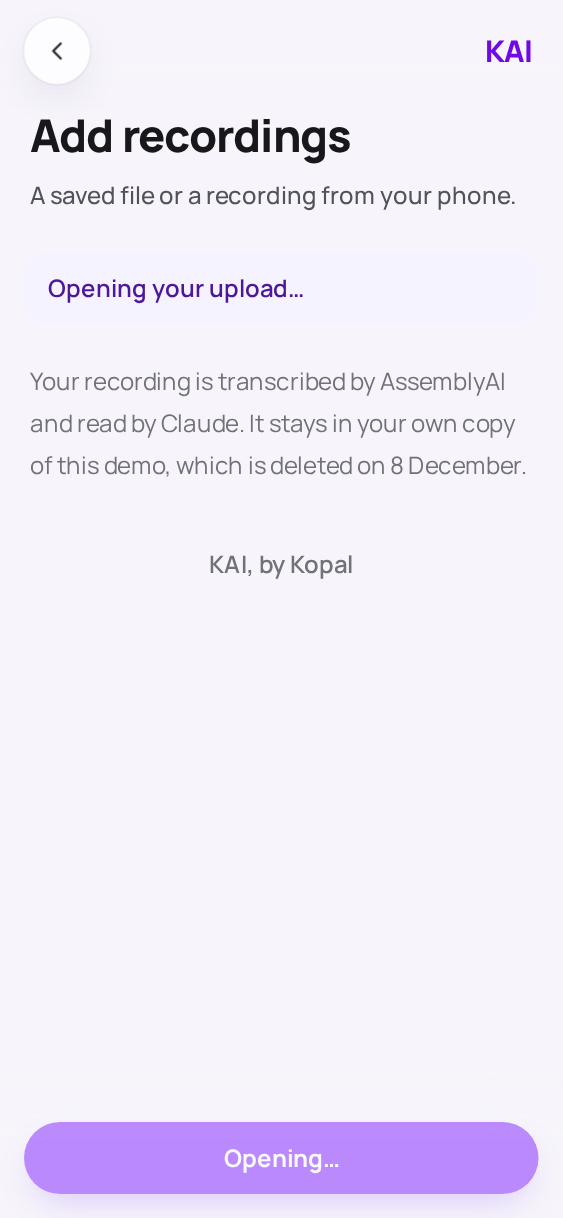
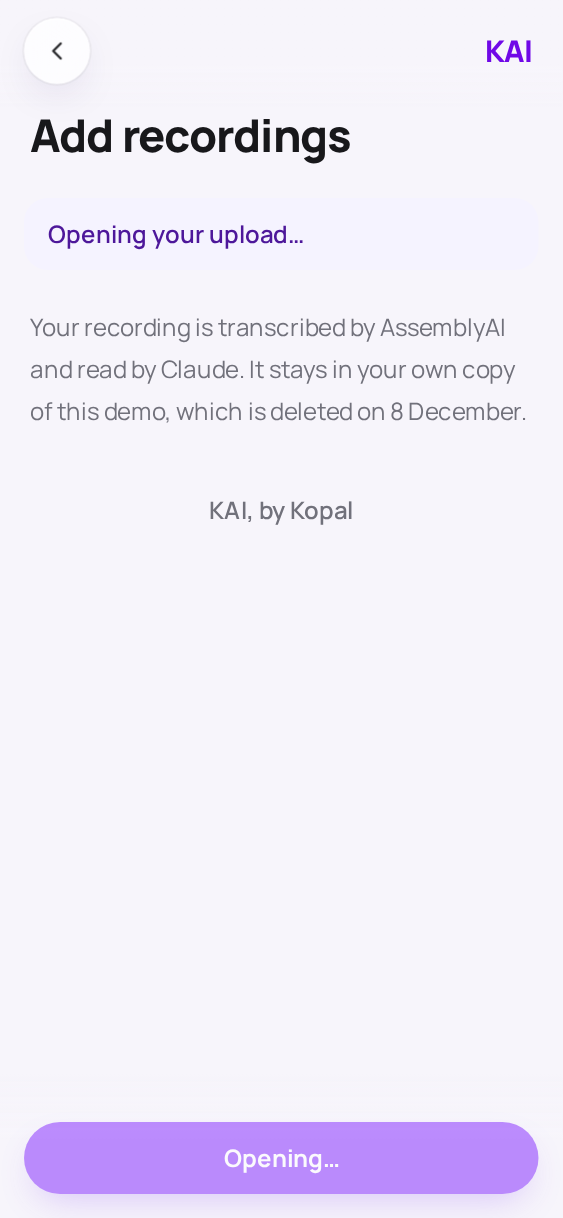
Use compact app rows with a shortcut setup link

Changed region(s): [[0.0604, 0.156, 0.9361, 0.468]]

diff --git a/src/look/screens/Upload.tsx b/src/look/screens/Upload.tsx
@@ -6,11 +6,11 @@ import { Button, Card, Field, FOCUS, Notice, PushedPage, RecordingPicker, Segmen
 import {Icon} from '../icons'
 import {Dialog,DialogTitle,DialogBody,DialogActions} from '../../catalyst/dialog'
 export type UploadSource='voice-memos'|'whatsapp'|'messages'|'telegram'|'files'
-const appImages={whatsapp:new URL('../brands/whatsapp.svg',import.meta.url).href,messages:new URL('../brands/messages.png',import.meta.url).href,telegram:new URL('../brands/telegram.svg',import.meta.url).href}
+const appImages={whatsapp:new URL('../brands/whatsapp.svg',import.meta.url).href,messages:new URL('../brands/messages.png',import.meta.url).href,'voice-memos':new URL('../brands/voice-memos.png',import.meta.url).href}
 const apps:{id:keyof typeof appImages;label:string;href:string}[]=[
+ {id:'voice-memos',label:'Voice Memos',href:''},
  {id:'whatsapp',label:'WhatsApp',href:'whatsapp://app'},
- {id:'messages',label:'Messages',href:'sms:'},
- {id:'telegram',label:'Telegram',href:'tg://settings'}
+ {id:'messages',label:'Messages',href:'sms:'}
 ]
 const guides:Record<UploadSource,string[]>={
  'voice-memos':['Open Voice Memos from your Home Screen and choose a recording.','Tap More (…), then Share. If Options appears, choose Rendered audio.','Choose Send to KAI. Your browser opens so you can choose the recording type.','Or choose Save to Files, then use Choose audio file here.'],
@@ -54,7 +54,7 @@ export function Upload({ people, incoming, readOnly, presetPerson, busy, error, 
   const valid=Boolean(recordingType) && (recordingType!=='voice' || (selected==='new' ? Boolean(name.trim()):Boolean(selected)))
   const dock=readOnly ? <WhatIsKai/> : loadError ? <Button variant="primary" wide onClick={onRetry}>Try again</Button> : !people ? <Button variant="primary" wide disabled>Opening…</Button> : exhausted ? <Button variant="primary" wide href={xPostUrl || '/home'}>{xPostUrl ? 'Show KAI some love':'Back to Home'}</Button> : attached ? <Button variant="primary" wide disabled={busy || !valid} onClick={()=>incoming?onStart(person):file&&onFiles([file],person)}>{busy ? 'Starting…' : recordingType==='multiple' ? 'Transcribe recording':'Let KAI read'}</Button> : undefined
   return <PushedPage back="/home" backLabel="Back to Home" readOnly={readOnly} dock={dock}>
-    <header className="px-1"><h1 className="text-[30px]/9 font-extrabold tracking-tight">Add recordings</h1><p className="mt-2 text-base/7 font-medium text-zinc-600">{attached ? 'Tell KAI whose words these are.':'A saved file or a recording from your phone.'}</p></header>
+    <header className="px-1"><h1 className="text-[30px]/9 font-extrabold tracking-tight">Add recordings</h1>{attached && <p className="mt-2 text-base/7 font-medium text-zinc-600">Tell KAI whose words these are.</p>}</header>
     {readOnly ? <Card className="p-5 text-base/7 font-medium text-zinc-600">Open your own copy to add recordings.</Card> : loadError ? <Notice tone="error">{loadError}</Notice> : !people ? <Notice>Opening your upload…</Notice> : exhausted ? <Card className="space-y-3 p-5"><h2 className="text-xl font-extrabold">Your trial time is complete</h2><p className="text-base/7 text-zinc-600">You’ve used your recording time. Your people, tasks and past recordings are still here.</p></Card> : <>
       {!attached && <>
        <section className="rounded-[28px] border border-dashed border-violet-400 bg-violet-50/30 p-5 text-center">
@@ -63,20 +63,20 @@ export function Upload({ people, incoming, readOnly, presetPerson, busy, error, 
         <p className="mt-2 mb-5 text-base/7 text-zinc-500">One audio file · up to 10 MB · under 30 minutes</p>
         <RecordingPicker label="Choose audio file" busy={busy} onFiles={chooseFiles}/>
        </section>
-       <section className="space-y-4"><div className="flex items-center justify-between gap-2"><h2 className="text-xl font-extrabold">Voice notes</h2><TextLink href={'/connect?next='+(guide&&guide!=='files'?guide:'whatsapp')}>{shortcutReady?'Sharing setup':'Set up sharing'}</TextLink></div>
-        <div className="grid grid-cols-3 gap-2" aria-label="Share from an app">{apps.map(app=><div key={app.id} className="text-center">
-         <a className={`${FOCUS} flex min-h-24 flex-col items-center justify-center gap-2 rounded-2xl text-base font-bold`} href={shortcutReady?app.href:to('/connect?next='+app.id)} onClick={()=>setGuide(app.id)}><img src={appImages[app.id]} alt="" width={48} height={48} className="size-12 object-contain"/>{app.label}</a>
-         <button className={`${FOCUS} mx-auto grid size-11 place-items-center rounded-full text-zinc-500`} aria-label={'How to add from '+app.label} aria-haspopup="dialog" aria-expanded={guide===app.id} onClick={()=>setGuide(guide===app.id?null:app.id)}><Icon name="info"/></button>
-        </div>)}</div>
-        <button className={`${FOCUS} flex min-h-16 w-full items-center gap-3 rounded-2xl px-1 text-left`} onClick={()=>setGuide(guide==='voice-memos'?null:'voice-memos')} aria-expanded={guide==='voice-memos'}><Icon name="mic"/><span className="flex-1"><span className="block text-base font-bold">Voice Memos</span><span className="text-base/7 text-zinc-500">How to share your recording</span></span><Icon name="right"/></button>
-        <p className="text-base/7 text-zinc-500">{shortcutReady?'Your sharing shortcut is set up.':'Sharing from apps needs the Send to KAI shortcut.'}</p>
+       <section className="space-y-3">
+        <h2 className="px-1 text-lg/7 font-bold">or share from any of your apps, for example:</h2>
+        <Card className="divide-y divide-zinc-100 overflow-hidden" aria-label="Share from an app">{apps.map(app=><div key={app.id} className="flex items-center gap-2 pr-2 pl-4">
+         {app.id==='voice-memos' ? <button className={`${FOCUS} flex min-h-[68px] min-w-0 flex-1 items-center gap-3 rounded-xl text-left text-base font-bold`} onClick={()=>setGuide(app.id)}><img src={appImages[app.id]} alt="" width={30} height={30} className="size-[30px] rounded-md object-contain"/>{app.label}</button> : <a className={`${FOCUS} flex min-h-[68px] min-w-0 flex-1 items-center gap-3 rounded-xl text-base font-bold`} href={shortcutReady?app.href:to('/connect?next='+app.id)} onClick={()=>setGuide(app.id)}><img src={appImages[app.id]} alt="" width={30} height={30} className="size-[30px] rounded-md object-contain"/>{app.label}</a>}
+         <button className={`${FOCUS} grid size-11 shrink-0 place-items-center rounded-full text-zinc-500`} aria-label={'How to add from '+app.label} aria-haspopup="dialog" aria-expanded={guide===app.id} onClick={()=>setGuide(app.id)}><Icon name="info"/></button>
+        </div>)}</Card>
+        <div className="flex items-center justify-between gap-2 px-1 text-base/7 text-zinc-500"><span>Uses Send to KAI</span><TextLink href={'/connect?next='+(guide&&guide!=='files'?guide:'voice-memos')}>Sharing setup</TextLink></div>
        </section>
        <Dialog open={Boolean(guide)} onClose={()=>setGuide(null)} className="!rounded-[28px]">
-        <DialogTitle className="!text-xl !font-extrabold">From {guide==='voice-memos'?'Voice Memos':guide==='files'?'Files':apps.find(a=>a.id===guide)?.label}</DialogTitle>
+        <DialogTitle className="!text-xl !font-extrabold">From {guide==='voice-memos'?'Voice Memos':guide==='files'?'Files':guide==='telegram'?'Telegram':apps.find(a=>a.id===guide)?.label}</DialogTitle>
         <DialogBody className="space-y-4 !text-base/7">
          <ol className="list-decimal space-y-3 pl-5">{guide && guides[guide].map((step,index)=><li key={index}>{step.split('Send to KAI').map((part,i)=><span key={i}>{i>0 && <a href={to('/connect?next='+guide)} className={`${FOCUS} inline-flex min-h-11 items-center rounded-lg font-bold text-violet-700 underline`}>Send to KAI</a>}{part}</span>)}</li>)}</ol>
-         {!shortcutReady && guide!=='files' && <Button variant="outline" href={'/connect?next='+guide}>Set up shortcut</Button>}
          <p>If an app does not open, open it from your Home Screen. You can also save the recording to Files and choose it here.</p>
+         <TextLink href={'/connect?next='+(guide==='files'?'voice-memos':guide)}>Set up the KAI shortcut for iOS</TextLink>
         </DialogBody>
         <DialogActions><Button variant="quiet" onClick={()=>setGuide(null)}>Dismiss instructions</Button></DialogActions>
        </Dialog>

diff --git a/src/look/screens/Connect.tsx b/src/look/screens/Connect.tsx
@@ -65,7 +65,7 @@ export function Connect({
   back = "/settings",
   initialAssistant = "Claude",
 }: {
-  initialAssistant?: 'Claude' | 'ChatGPT' | 'Grok' | 'Muse'
+  initialAssistant?: 'Claude' | 'ChatGPT' | 'Grok' | 'Cursor'
   onSetupDone?: (ready:boolean) => void
   setupBusy?: boolean
   back?: string
@@ -182,7 +182,7 @@ export function Connect({
               </Button>
               {feedback('assistant')}
               <p className="text-base/7 text-zinc-500">Keep this address private: anyone with it can read your notebook.</p>
-              <fieldset className="space-y-3"><legend className="text-base font-bold">Choose your assistant</legend><div className="grid grid-cols-2 gap-2">{(['Claude','ChatGPT','Grok','Muse'] as const).map(name=><button key={name} type="button" aria-pressed={assistant===name} onClick={()=>setAssistant(name)} className={`${FOCUS} min-h-11 rounded-xl border px-3 py-2 text-base font-bold ${assistant===name?'border-violet-400 bg-violet-50 text-violet-700':'border-zinc-200 text-zinc-600'}`}>{name}</button>)}</div></fieldset>
+              <fieldset className="space-y-3"><legend className="text-base font-bold">Choose your assistant</legend><div className="grid grid-cols-2 gap-2">{(['Claude','ChatGPT','Grok','Cursor'] as const).map(name=><button key={name} type="button" aria-pressed={assistant===name} onClick={()=>setAssistant(name)} className={`${FOCUS} min-h-11 rounded-xl border px-3 py-2 text-base font-bold ${assistant===name?'border-violet-400 bg-violet-50 text-violet-700':'border-zinc-200 text-zinc-600'}`}>{name}</button>)}</div></fieldset>
               <AssistantSteps name={assistant}/>
 
             </>
@@ -197,14 +197,14 @@ const assistantHelp={
  Claude:'https://support.claude.com/en/articles/11175166-get-started-with-custom-connectors-using-remote-mcp',
  ChatGPT:'https://help.openai.com/en/articles/12584461-developer-mode-and-full-mcp-connectors-in-chatgpt-beta',
  Grok:'https://docs.x.ai/grok/connectors',
- Muse:'https://www.meta.com/en-gb/help/superintelligence/1687253048996149/',
+ Cursor:'https://cursor.com/docs/mcp',
 }
 function AssistantSteps({name}:{name:keyof typeof assistantHelp}) {
  const steps:Record<keyof typeof assistantHelp,ReactNode[]>={
   Claude:[<>Open Claude’s <B>Customize → Connectors</B>, then <B>Add → Add custom connector</B>. Your workspace may need its owner to add it first.</>,<>Name it <B>KAI</B>, paste your assistant address and choose <B>No sign in</B> if asked. The private address already gives access.</>,<>Connect KAI, enable it in a conversation’s tool menu and ask <B>What tasks do I have in KAI?</B></>],
   ChatGPT:[<>Use ChatGPT on the web. In <B>Settings → Apps → Advanced settings</B>, enable <B>Developer mode</B>. Availability depends on your plan and workspace permissions.</>,<>Under <B>Apps</B>, choose <B>Create</B>. Name it <B>KAI</B>, paste your assistant address and choose <B>No authentication</B>. Scan the tools and create the app.</>,<>Start a chat, select KAI from the apps menu and ask <B>What tasks do I have in KAI?</B></>],
   Grok:[<>Open <B>grok.com/connectors</B>. Choose <B>New Connector → Custom</B>. A work account may need its admin to add it first.</>,<>Name it <B>KAI</B> and paste your assistant address as the server URL. No extra sign-in is needed for this private address.</>,<>Finish adding it, then ask Grok <B>What tasks do I have in KAI?</B></>],
-  Muse:[<>Ask Muse to create a custom connector for KAI. Meta’s instructions start this setup in a conversation.</>,<>Ask whether it can connect to a remote MCP server. KAI uses a private server address; no separate API key is needed.</>,<>KAI’s connection to Muse has not been verified. If Muse cannot use a remote MCP address, choose another assistant here.</>],
+  Cursor:[<>Open Cursor’s <B>Customize</B> page and add a custom MCP server.</>,<>Use an HTTP server named <B>KAI</B> with your assistant address as its URL. Keep this private configuration out of shared projects.</>,<>Enable KAI’s tools in Agent, then ask <B>What tasks do I have in KAI?</B></>],
  }
  return <section aria-label={`${name} setup`} className="space-y-3"><Steps>{steps[name]}</Steps><a className={`${FOCUS} inline-flex min-h-11 items-center rounded-lg text-base font-bold text-violet-700 underline`} href={assistantHelp[name]} target="_blank" rel="noreferrer">{name}’s setup guide</a></section>
 }

diff --git a/tests/phone/upload-sources.spec.ts b/tests/phone/upload-sources.spec.ts
@@ -5,13 +5,14 @@ import {testTone} from '../../src/server/gateway';
 test('App shelf puts Files first and returns from sharing setup to each source',async({page,kai})=>{
  await page.goto('/');await page.evaluate(s=>{history.replaceState(null,'','/#judge='+s);location.reload()},kai.secret);
  await page.getByRole('link',{name:'Try it yourself',exact:true}).click();await page.goto('/upload/new');
+ await expect(page.getByRole('link',{name:'Telegram',exact:true})).toHaveCount(0);
  await expect(page.getByText('One audio file · up to 10 MB · under 30 minutes',{exact:true})).toHaveCount(1);
- for(const name of ['WhatsApp','Messages','Telegram']){await page.getByRole('button',{name:'How to add from '+name}).click();await expect(page.getByRole('heading',{name:'From '+name,exact:true})).toBeVisible();await expect(page.getByRole('dialog').getByRole('link',{name:'Send to KAI',exact:true})).toHaveAttribute('href','/connect?next='+name.toLowerCase());await assertPhone(page);await page.keyboard.press('Escape');await expect(page.getByRole('button',{name:'How to add from '+name})).toBeFocused()}
+ for(const name of ['Voice Memos','WhatsApp','Messages']){await page.getByRole('button',{name:'How to add from '+name}).click();await expect(page.getByRole('heading',{name:'From '+name,exact:true})).toBeVisible();await expect(page.getByRole('dialog').getByRole('link',{name:'Set up the KAI shortcut for iOS',exact:true})).toHaveAttribute('href','/connect?next='+(name==='Voice Memos'?'voice-memos':name.toLowerCase()));await assertPhone(page);await page.keyboard.press('Escape');await expect(page.getByRole('button',{name:'How to add from '+name})).toBeFocused()}
  await page.route('**/api/connect',async route=>{const r=await route.fetch();const data=await r.json();await route.fulfill({json:{...data,uploadPath:'/in/layout-example',mcpPath:'/mcp/layout-example'}})});
  await page.getByRole('link',{name:'WhatsApp',exact:true}).click();await expect(page).toHaveURL(/connect\?next=whatsapp$/);
  await page.getByRole('checkbox',{name:'I already have the shortcut set up'}).click();await expect(page.getByRole('checkbox')).toBeChecked();await expect(page.getByRole('button',{name:'Copy your address',exact:true})).toHaveCount(0);await page.getByRole('link',{name:'Back to upload'}).click();await expect(page).toHaveURL(/upload\/new\?source=whatsapp$/);await page.getByRole('button',{name:'Dismiss instructions'}).click();
- await expect(page.locator('[aria-label="Share from an app"] img')).toHaveCount(3);expect(await page.locator('[aria-label="Share from an app"] img').evaluateAll(images=>images.every(img=>(img as HTMLImageElement).naturalWidth>0))).toBe(true);
- for(const [name,url] of [['WhatsApp','whatsapp://app'],['Messages','sms:'],['Telegram','tg://settings']])await expect(page.getByRole('link',{name,exact:true})).toHaveAttribute('href',url);
+ await expect(page.locator('[aria-label="Share from an app"] img')).toHaveCount(3);await expect.poll(()=>page.locator('[aria-label="Share from an app"] img').evaluateAll(images=>images.every(img=>(img as HTMLImageElement).naturalWidth>0))).toBe(true);
+ for(const [name,url] of [['WhatsApp','whatsapp://app'],['Messages','sms:']])await expect(page.getByRole('link',{name,exact:true})).toHaveAttribute('href',url);
  await page.getByRole('button',{name:/^Voice Memos/}).click();await expect(page.getByText('Open Voice Memos from your Home Screen and choose a recording.',{exact:true})).toBeVisible();await expect(page.locator('a[href^="voicememos:"]')).toHaveCount(0);await assertPhone(page);
  await page.getByRole('button',{name:'Dismiss instructions'}).click();
  const picker=page.getByLabel('Add recording: choose one audio file');await expect(picker).not.toHaveAttribute('multiple');await expect(picker).toHaveAttribute('accept','.m4a,.opus,.ogg,.mp3,.wav');

diff --git a/tests/phone/connect.spec.ts b/tests/phone/connect.spec.ts
@@ -46,8 +46,8 @@ test('shortcut checkbox persists, reveals assistant setup and keeps sharing retu
  const checkbox=page.getByRole('checkbox',{name:'I already have the shortcut set up'});
  await checkbox.click();await expect(checkbox).toBeChecked();await expect(page.getByRole('button',{name:'Copy your address',exact:true})).toHaveCount(0);await assertPhone(page);
  await page.reload();await expect(checkbox).toBeChecked();
- for(const name of ['Claude','ChatGPT','Grok','Muse']){await page.getByRole('button',{name,exact:true}).click();await expect(page.getByRole('region',{name:name+' setup'})).toBeVisible();await expect(page.getByRole('link',{name:name+'’s setup guide'})).toHaveAttribute('href',/^https:/);await assertPhone(page)}
- await expect(page.getByText('KAI’s connection to Muse has not been verified.',{exact:false})).toBeVisible();
+ for(const name of ['Claude','ChatGPT','Grok','Cursor']){await page.getByRole('button',{name,exact:true}).click();await expect(page.getByRole('region',{name:name+' setup'})).toBeVisible();await expect(page.getByRole('link',{name:name+'’s setup guide'})).toHaveAttribute('href',/^https:/);await assertPhone(page)}
+ await expect(page.getByRole('link',{name:'Cursor’s setup guide'})).toHaveAttribute('href','https://cursor.com/docs/mcp');
  await checkbox.click();await expect(page.getByRole('button',{name:'Copy your address',exact:true})).toBeVisible();await page.reload();await expect(checkbox).not.toBeChecked();
  await page.route('**/api/connect/shortcut',route=>route.fulfill({status:500,json:{error:'Invented failure'}}));await checkbox.click();await expect(page.getByText('Your setup could not be saved. Try again.')).toBeVisible();await expect(checkbox).not.toBeChecked();
  await page.getByRole('link',{name:'Back to upload'}).click();await expect(page.getByRole('heading',{name:'From Messages'})).toBeVisible();

diff --git a/design/gallery.tsx b/design/gallery.tsx
@@ -143,7 +143,7 @@ const STATES: Record<string, { title: string; screen: () => ReactNode }> = {
   'notifications/failed':{title:'Notifications · could not load',screen:()=> <Notifications items={null} readOnly={false} error="Your recordings could not load. Reload this page to try again."/>},
   'connect/chatgpt':{title:'Connections · ChatGPT',screen:()=> <Connect connection={{...data.connection,shortcutReady:true}} initialAssistant="ChatGPT" readOnly={false} onCopy={nothing} onSetupDone={nothing}/>},
   'connect/grok':{title:'Connections · Grok',screen:()=> <Connect connection={{...data.connection,shortcutReady:true}} initialAssistant="Grok" readOnly={false} onCopy={nothing} onSetupDone={nothing}/>},
-  'connect/muse':{title:'Connections · Muse',screen:()=> <Connect connection={{...data.connection,shortcutReady:true}} initialAssistant="Muse" readOnly={false} onCopy={nothing} onSetupDone={nothing}/>},
+  'connect/cursor':{title:'Connections · Cursor',screen:()=> <Connect connection={{...data.connection,shortcutReady:true}} initialAssistant="Cursor" readOnly={false} onCopy={nothing} onSetupDone={nothing}/>},
   'connect/setup-saving':{title:'Connections · saving setup',screen:()=> <Connect connection={data.connection} setupBusy readOnly={false} onCopy={nothing} onSetupDone={nothing}/>},
   'connect/setup-failed':{title:'Connections · setup failed',screen:()=> <Connect connection={data.connection} error="Your setup could not be saved. Try again." readOnly={false} onCopy={nothing} onSetupDone={nothing}/>},
   'connect/ready':{title:'Connections · phone set up',screen:()=> <Connect connection={{...data.connection,shortcutReady:true}} readOnly={false} onCopy={nothing}/>},

diff --git a/design/README.md b/design/README.md
@@ -209,5 +209,9 @@ Apple’s Messages PNG (approved exception). Sharing help opens in a dismissible
 popup; Send to KAI links back to Connections. Messages keeps sms: and explains
 closing the composer before selecting a conversation. The shortcut checkbox
 persists its confirmation and collapses phone setup, making the assistant
-address the main action. Claude, ChatGPT, Grok and Muse have separate guidance;
-Muse is explicitly unverified. Official help links accompany the steps.
+address the main action. Claude, ChatGPT, Grok and Cursor have separate guidance based on official documentation; actual client connections remain an operator check. Official help links accompany the steps.
+
+Copal approved the compact rows on 28 November: 30 px artwork, Voice Memos
+first, WhatsApp and Messages. Telegram leaves the selection; old source links
+retain guidance. Each popup ends with Set up the KAI shortcut for iOS, linking
+to Connections with its source preserved. The sharing heading is his exact copy.

diff --git a/src/look/brands/README.md b/src/look/brands/README.md
@@ -12,3 +12,6 @@ respective owners; KAI is not affiliated with these apps.
   an official SVG was unavailable.
 
 The files are served locally; opening KAI does not contact these hosts.
+
+- Voice Memos PNG: Apple’s App Store artwork for app 1069512134, obtained
+  through https://itunes.apple.com/lookup?id=1069512134 on 28 November 2026.
